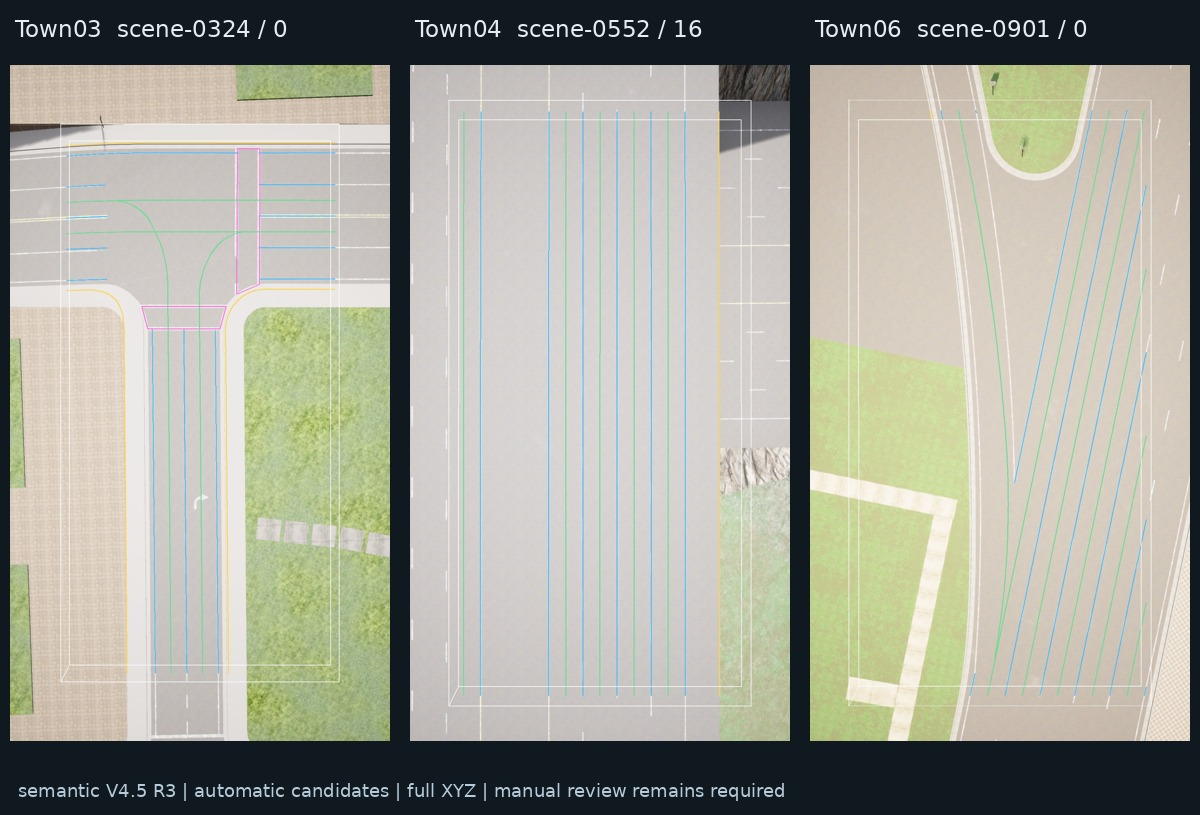
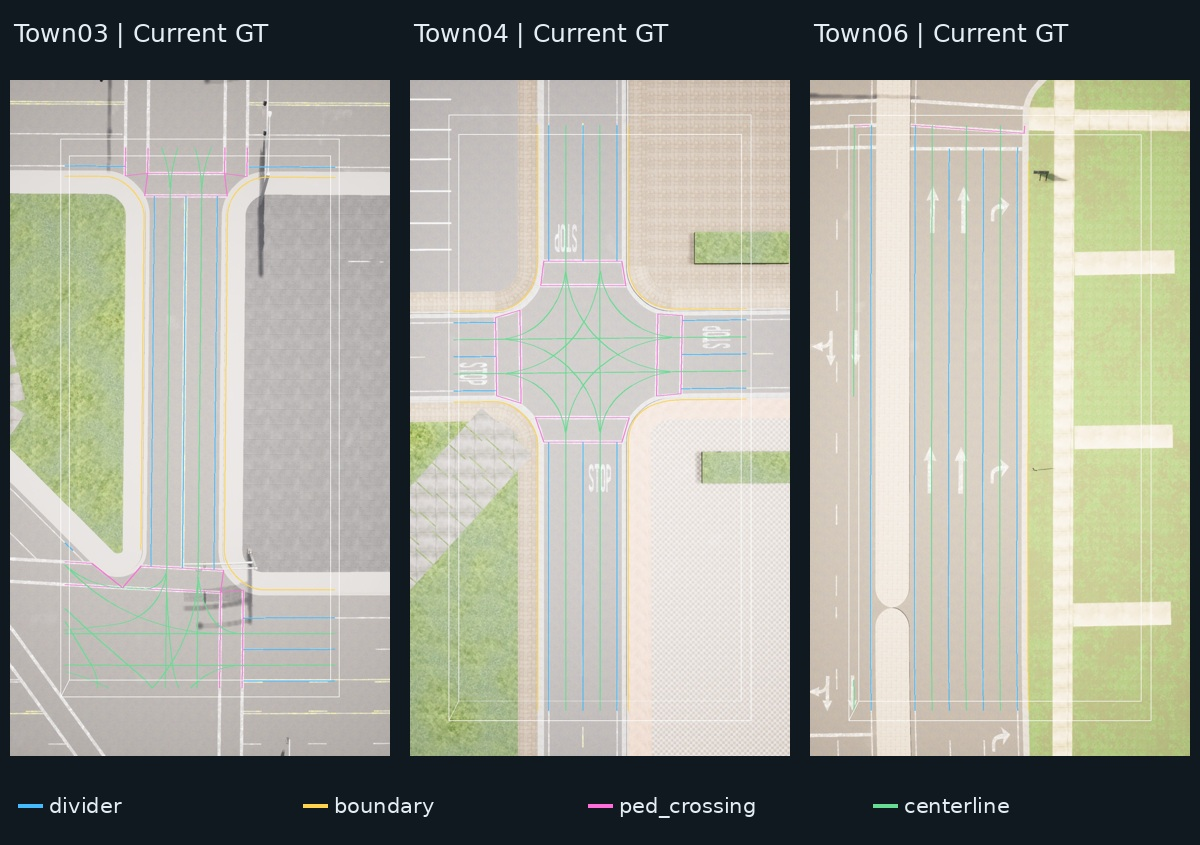
Refresh current-version GT figures and remove revision comparisons

diff --git a/docs/SEMANTIC_V45.md b/docs/SEMANTIC_V45.md
@@ -1,19 +1,18 @@
-# semantic V4.5 与 R3 修订
+# semantic V4.5 R3
 
-V4.4.1 的结构 boundary 连接方案正式命名为 V4.5。R1 清理 divider 精确重复和重合端点；R2 加入完整包含片段检查，避免重叠片段制造假分叉；R3 将同类整理扩展至 boundary 和有向 centerline。
+当前版本以 XODR-only V4.2 为几何基线，结合 semantic 与实测深度连接结构 boundary 端点，并在采样前统一整理线实例。
 
-核心数值规则见[算法](ALGORITHM.md)和[参数](PARAMETERS.md)。本页只记录版本对应关系。
-
-| 名称 | 含义 |
+| 类别 | 当前处理 |
 | --- | --- |
-| XODR-only V4.2 | 保留原生道路局部 XYZ 的几何基线，带 divider 连接 |
-| semantic V4.5 | V4.2 divider 与结构 boundary；semantic 只支持 boundary 连接 |
-| R2 divider | XYZ 重复／完整包含清理与唯一重合端点链 |
-| R3 | 保留 R2 divider；boundary 与 centerline 加入同类整理、方向与切分保护 |
-| 软件 1.0.0 | 新 MultiTown 源码仓库的独立发布版本 |
+| divider | 原生 roadMark 与几何连接；不增加 semantic 补线 |
+| boundary | 保留结构候选及有观测证据的端点连接，保护有意切分 |
+| centerline | 同地图 XODR 车道中心线，保留行驶方向 |
+| ped_crossing | 同地图 XODR crosswalk 对象 |
 
-R3 在加入 centerline 后、模型采样前统一整理。原始 target 及其 source_refs、parent 和来源链保留。实例整理保持已有完整几何和 semantic 连接。
+线实例按同类完整 XYZ 检查重复和完整包含，再合并唯一且方向连续的重合端点。原始 target、source_refs、parent 和来源链可追溯；完整几何和已有连接保持。
 
-可选采样调用配置的外部 MapTRv2 `LiDARInstanceLines`。无模型时默认输出完整通用几何；显式采样时保存全部类别的 GT 20 点与 NPZ。
+实例整理位于 centerline 加入之后、模型采样之前。默认输出通用完整几何；可选采样调用配置的外部 MapTRv2 LiDARInstanceLines，并保存 GT 20 点与 NPZ。
 
 图册数据集身份包含版本和 GT 内容摘要。人工编辑记录只适用于对应版本的图册；重新提取或调整实例后，应在相应图册中继续编辑。
+
+数值规则见[算法](ALGORITHM.md)与[参数](PARAMETERS.md)，修订操作见[人工后处理](POSTPROCESSING.md)。

diff --git a/README.md b/README.md
@@ -77,9 +77,9 @@ python run.py --paths config/paths.town03.local.json review \
 
 ## 审核与人工修订
 
-![Centerline targets and real forward sampling](docs/images/target-centerline.png)
+![当前版本的顶视 GT 与完整几何 BEV](docs/images/current-result.jpg)
 
-*同帧 target 整理前后对照，按实例着色并展示真实采样。较长曲线固定 20 点的表示偏差可能增加；可对照完整几何与采样图。*
+*当前版本的提取结果：顶视 GT 叠加和完整几何 BEV。颜色区分 divider、boundary、ped_crossing 和 centerline。*
 
 ![Two-line tangent fillet editor](docs/images/fillet-editor.png)
 

diff --git a/docs/ADOPTED_SCHEME.md b/docs/ADOPTED_SCHEME.md
@@ -4,7 +4,7 @@ MultiTown 默认使用 **semantic V4.5 R3**。软件版本为 1.0.0。
 
 | 类别 | 来源与处理 |
 | --- | --- |
-| divider | XODR-only V4.2，关闭 semantic 补线；采用 R2 target 整理 |
+| divider | XODR-only V4.2，关闭 semantic 补线；进行同类重复／包含片段及重合端点整理 |
 | boundary | V4.2 结构为主，semantic／depth 提供端点连接；R3 保留有意分段 |
 | centerline | 同地图 XODR，使用有向 R3 target 整理 |
 | ped_crossing | 同地图 XODR crosswalk 对象 |

diff --git a/README-EN.md b/README-EN.md
@@ -50,7 +50,9 @@ The default output is full generic geometry without model imports. Configure an 
 
 ## Review and editing
 
-![Directed centerline target consolidation](docs/images/target-centerline.png)
+![Current topdown GT and complete BEV geometry](docs/images/current-result.jpg)
+
+*Current-version output: topdown GT overlay and complete BEV geometry, colored by annotation class.*
 
 ![Tangent fillet editing](docs/images/fillet-editor.png)
 
